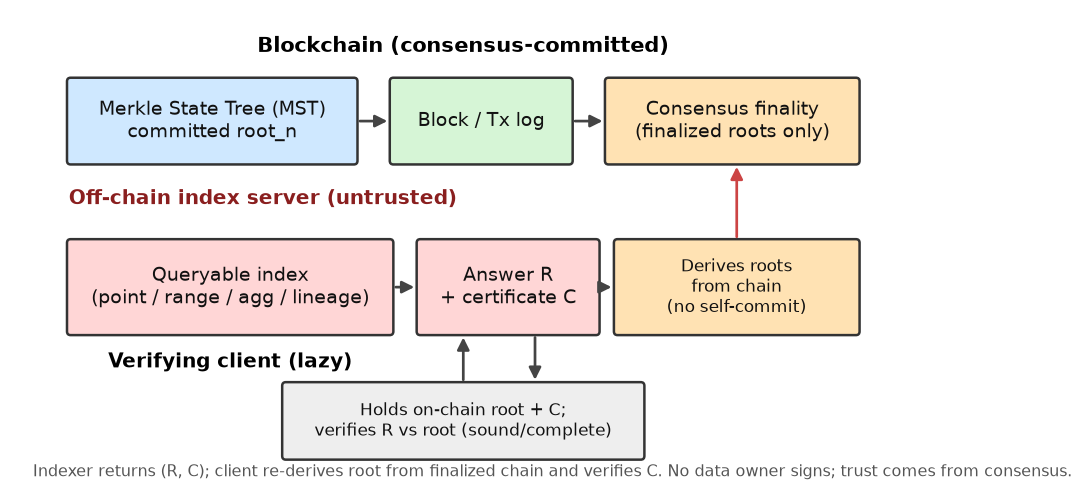
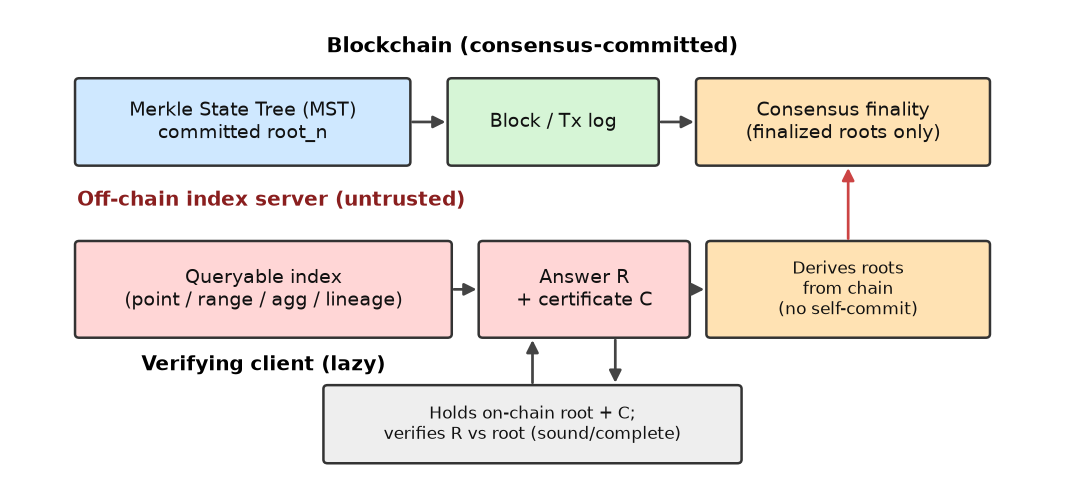
Regenerate figures: remove embedded titles and explanatory text

Changed region(s): [[0.031, 0.1515, 0.9915, 0.9697], [0.2169, 0.0606, 0.7127, 0.1212]]

diff --git a/figures/generate_figures.py b/figures/generate_figures.py
@@ -8,6 +8,8 @@ Outputs (into the same directory as this script):
   - fig_cover.png        : canonical-cover decomposition for an authenticated
                           range proof (O(log n) subtrees + sibling-path folding).
 
+Figures carry structural labels only: no embedded titles and no explanatory
+sentences. All descriptive text belongs in the LaTeX captions.
 Pure matplotlib, deterministic, no external assets. Run:
 
     python3 figures/generate_figures.py
@@ -67,10 +69,6 @@ def fig_architecture():
     _arrow(ax, 5.8, 1.55, 5.8, 1.0)   # server -> client answer
     _arrow(ax, 5.0, 1.0, 5.0, 1.55)   # client challenge / verify
 
-    ax.text(0.2, 0.0,
-            "Indexer returns (R, C); client re-derives root from finalized chain and "
-            "verifies C. No data owner signs; trust comes from consensus.",
-            fontsize=7.5, color="#555555")
     fig.tight_layout()
     p = os.path.join(OUT, "fig_architecture.png")
     fig.savefig(p, dpi=150, bbox_inches="tight")
@@ -81,8 +79,6 @@ def fig_architecture():
 def fig_cover():
     fig, ax = plt.subplots(figsize=(7.2, 3.4))
     ax.set_xlim(0, 10); ax.set_ylim(0, 5); ax.axis("off")
-    ax.text(5, 4.6, "Authenticated range proof: canonical-cover decomposition",
-            ha="center", fontsize=10, fontweight="bold")
 
     # sorted key space
     n = 16
@@ -94,9 +90,6 @@ def fig_cover():
                                 9 * 0.6 + 0.04, 0.86,
                                 boxstyle="round,pad=0.0",
                                 fc="none", ec="#cc4444", lw=1.6))
-    ax.text(0.2 + 3 * 0.6 + 4.5 * 0.6, y + 0.75,
-            "query range [k3, k11] (contiguous)", ha="center", fontsize=8,
-            color="#cc4444")
 
     # O(log n) canonical-cover subtrees
     labels = ["T3", "T4-7", "T8", "T9-10", "T11"]
@@ -105,11 +98,9 @@ def fig_cover():
     ys = 1.7
     for lb, x in zip(labels, xs):
         _box(ax, x, ys, 0.9, 0.6, lb, "#cfe8ff")
-    ax.text(5, ys + 0.95, "O(log n) canonical-cover subtrees (proven against root_n)",
-            ha="center", fontsize=8.5)
 
     # sibling-path folding
-    _box(ax, 1.6, 0.3, 5.6, 0.6, "sibling-path folding ->\ncompact cert C",
+    _box(ax, 1.6, 0.3, 5.6, 0.6, "cert C",
          "#eeeeee", fs=8)
     for x in xs:
         _arrow(ax, x + 0.45, ys, x + 0.45, 0.95)
